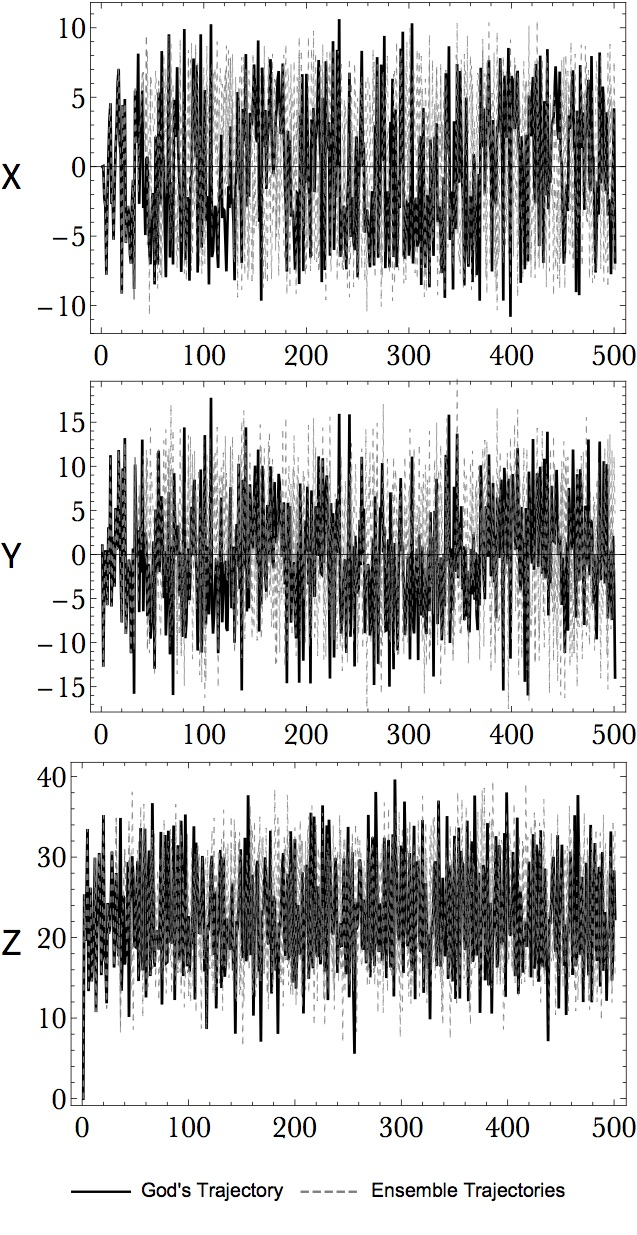
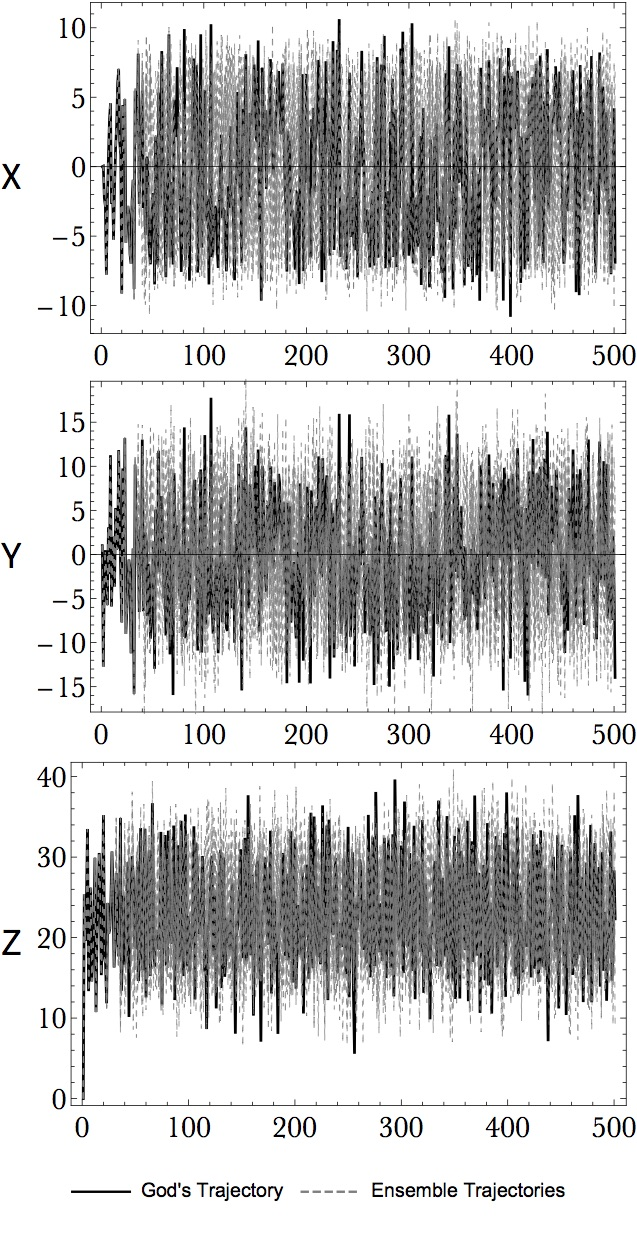
ensemble

Changed region(s): [[0.1491, 0.0308, 0.9843, 0.2462], [0.1491, 0.3385, 0.9843, 0.5538], [0.1193, 0.6462, 0.9843, 0.8308]]

diff --git a/posts/butterflyhawkmoth.md b/posts/butterflyhawkmoth.md
@@ -80,9 +80,11 @@ and Y is uniformly distributed in an interval of (-10^-5,10^-5).
 
 150 samples were generated and evolved for 500 steps, along with the God's trajectory. 
 
-Below I show the projected trajectories on the coordinate planes. 
+Below I show the projected trajectories on the coordinate planes. Only part of the ensemble members were drawn for clarity.
 
 ![ensemble.jpg](https://raw.githubusercontent.com/lambdamore/lambdamore.github.io/master/figures/lorenz/lorenzensemble.jpg)
+
+A very natural question arises that **Could Ensemble Forecasts Provide Better Prediction in Deterministic Sense?**
 
 ## *However, Misleading is Worse Than Nothing*
 
